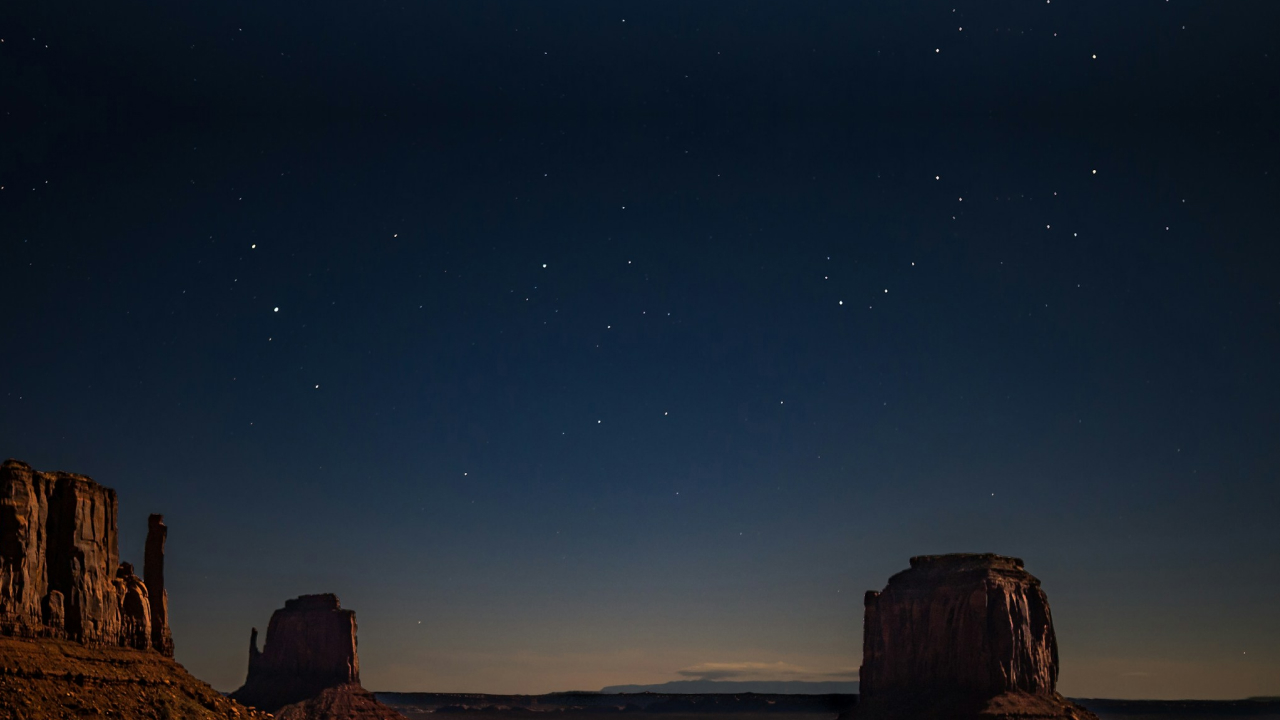
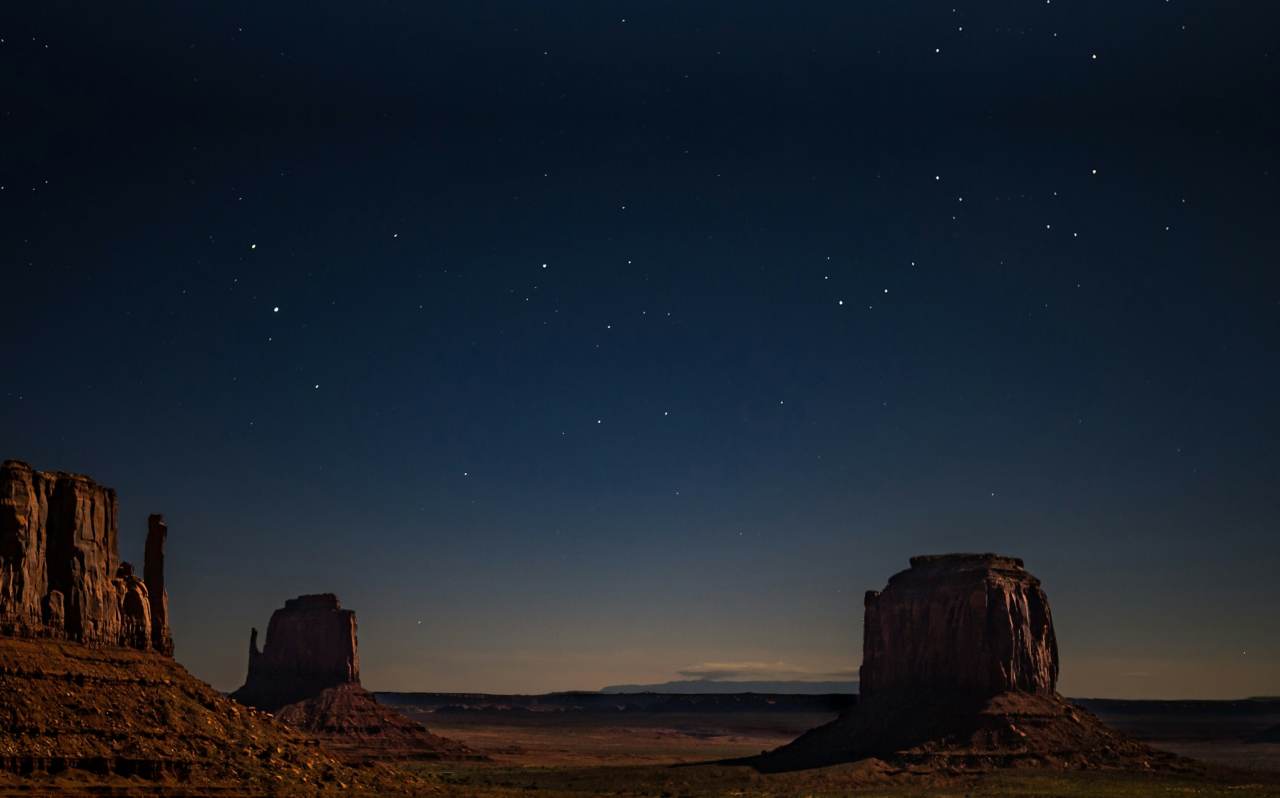
Styles home complete start working in change the store

Changed region(s): [[0.0, 0.5806, 1.0, 1.0]]

diff --git a/src/styles/App.css b/src/styles/App.css
@@ -1,9 +1,60 @@
-body {
-  background-color: #302B3D !important;
+*, ::after, ::before {
+  box-sizing: border-box;
 }
 
-#root {
-  background-image: url('/img/back.jpg') ;
+div {
+  display: block;
+  unicode-bidi: isolate;
+}
+.no-bootstrap {
+  all: revert;
+}
+body {
+  background-color: #302B3D !important;
+  height: 100%;
+  margin: 0px;
+}
+
+.homeSection {
+  justify-content: center;
+  align-items: center;
+}
+.homeContentBox {
+  margin-left: 40px;
+  margin-right: -150px;
+  max-width: 650px;
+}
+.homeText {
+  padding: 35px 50px 35px 45px;
+  background: linear-gradient(to bottom, #F7D95C, #ffa73b); 
+}
+.homeImage {
+  margin-top: -15vh;
+    width: auto;
+  height: 95vh; 
+  object-fit: cover; 
+  align-self: flex-end; 
+}
+.homeLogos { 
+  padding: 20px 50px 20px 45px;
+
+}
+.homeTextUnder{
+  padding: 20px 50px 20px 45px;
+  background-color: rgba(33, 44, 53, 0.9);
+}
+input, input::selection{
+  background-color: #FFFAAE;
+  border: none;
+  border-radius: 20px;
+  padding: 8px 30px 8px 30px ;
+  color: #978653;
+  font-size: 15px;
+  font-family: "Inter", sans-serif;
+  font-style: italic;
+  font-weight: 800; 
+  max-width: 600px;
+
 }
 
 
@@ -12,10 +63,20 @@ body {
 
 /* Content------------------------------------------------------ */
 header {
+
   align-items: center;
   justify-content: space-between;
   padding: 30px 30px 30px 30px;
   flex-direction: row;
+}
+footer{
+  height: 30px;
+  color: #FFFAAE;
+  justify-content: space-between;
+  align-items: center;
+  background-color: #302B3D;
+  padding: 3px 30px 3px 30px;
+  
 }
 
 .logo img {
@@ -33,6 +94,8 @@ header {
   text-decoration: none;
   color: #FFFAAE;
   margin-right: 30px;
+  font-family: "Inter", sans-serif;
+  font-weight: 800;
 }
 .rightMenuButton {
   background-color: #6DC9A8 ;
@@ -48,19 +111,32 @@ header {
   box-shadow: black 10px;
 }
 
+/* Fonts ---------------------------------------------------------------------------*/
+
+h1 {
+  all: unset;
+  font-family: "Libre Baskerville",  Georgia, 'Times New Roman', Times, serif;
+  font-weight: 800 ;
+  color: #212C35;
+  font-size: 90px ;
+  line-height: 92px;
+}
+
 /* Grid & Flex----------------------------------------------------------------------*/
 
 
 #root {
-display: flex
-;
+    display: flex;
     flex-direction: column;
-    height: 100vh;
     justify-content: space-between;
     min-width: 320px;
+    background-image: url('/img/back2x.jpg') ;
+    background-size: cover;
+    background-position: bottom;
+    height: 100%;
 }
 content {
-  margin: 0px 15% 80px 15%;
+  margin: 0px 15% 0px 15%;
 }
 .flex {
   display: flex;
@@ -112,27 +188,25 @@ content {
   header {
     flex-direction: row;
   }
-  content {
-    margin: 0px 5% 50px 5%;
+  footer{
+    height: 30px;
+    
   }
+  content {
+    margin: 0px 5% 0px 5%;
+  }
+  #root {
+        background-image: url('/img/back.jpg') ;
+
+    }
 }
 /* Laptops and Small Screens ------------ */
 @media (max-width: 1025px) {
   content {
-    margin: 0px 5% 50px 5%;
+    margin: 0px 5% 0px 5%;
   }
   header {
     flex-direction: row;
-  }
-  .slider-content {
-    flex-direction: column;
-  }
-  .slider-text {
-    margin-left: 40px;
-    margin-right: 40px;
-  }
-  .product-picture-slider {
-    order: -1;
   }
   .grid-2-col {
     display: grid;
@@ -156,49 +230,14 @@ content {
 
 /* Mobile devices -------------------- */
 @media (max-width: 768px) {
-  h1 {
-    color: #273642;
-    font-family: Georgia, "Times New Roman", Times, serif;
-    font-size: 40px;
-    line-height: 48px;
-  }
-  h2 {
-    color: #273642;
-    font-family: Georgia, "Times New Roman", Times, serif;
-    font-size: 34px;
-    line-height: 42px;
-  }
-  h3 {
-    color: #273642;
-    font-family: Georgia, "Times New Roman", Times, serif;
-    margin-block-start: 0px;
-    font-size: 22px;
-    line-height: 30px;
-    margin-block-end: 20px;
-  }
+
   content {
     margin: 0px 20px 60px 20px;
   }
   header {
     flex-direction: column;
   }
-  .main-menu {
-    padding-left: 0px;
-  }
-  .slider-content {
-    flex-direction: column;
-  }
-  .product-picture-slider {
-    order: -1;
-  }
-  .product-content {
-    display: flex;
-    flex-direction: column;
-  }
-  .button-1 {
-    margin-bottom: 10px;
-    text-align: center;
-  }
+
   .grid-2-col {
     display: grid;
     grid-template-columns: 1fr;

diff --git a/src/pages/Home.tsx b/src/pages/Home.tsx
@@ -1,9 +1,18 @@
 const Home = () => {
     return (
       <content>
-        <section className="flex">
-        <h2>Bienvenido a VinylVibe</h2>
-        <p>Explora los mejores vinilos y encuentra tu música favorita.</p>
+        <section className="flex homeSection">
+          <div className="homeContentBox">
+            <div className="homeText">
+          <h1>Find Your Next Vinyl Obsession</h1>
+          </div>
+          <div className="homeTextUnder">
+           <input type="text" placeholder="Dig for names " ></input>
+          </div>
+          <img className="homeLogos" src="/img/logos.png"></img>
+          </div>
+          <img className="homeImage" src="/img/suricata.png"></img>
+
         </section>
       </content>
     );

diff --git a/src/public/index.html b/src/public/index.html
@@ -6,7 +6,7 @@
 
   <link rel="preconnect" href="https://fonts.googleapis.com">
   <link rel="preconnect" href="https://fonts.gstatic.com" crossorigin>
-  <link href="https://fonts.googleapis.com/css2?family=Inter:ital,opsz,wght@0,14..32,100..900;1,14..32,100..900&display=swap" rel="stylesheet">
+  <link href="https://fonts.googleapis.com/css2?family=Inter:ital,opsz,wght@0,14..32,100..900;1,14..32,100..900&family=Libre+Baskerville:ital,wght@0,400;0,700;1,400&display=swap" rel="stylesheet">
 
   <title>VinylVibes</title>
 </head>

diff --git a/src/routes/AppRoutes.tsx b/src/routes/AppRoutes.tsx
@@ -10,6 +10,7 @@ import MySpins from "../pages/MySpins";
 const AppRoutes = () => {
   return (
     <Router>
+      
       <Header />
       <Routes>
         <Route path="/" element={<Home />} />
@@ -17,6 +18,7 @@ const AppRoutes = () => {
         <Route path="/my-spins" element={<MySpins />} />
         <Route path="/register" element={<Register />} />
       </Routes>
+
       <Footer />
     </Router>
   );

diff --git a/src/main.tsx b/src/main.tsx
@@ -1,7 +1,8 @@
+import 'bootstrap/dist/css/bootstrap.min.css';
 import React from "react";
 import ReactDOM from "react-dom/client";
 import App from "./App";
-import 'bootstrap/dist/css/bootstrap.min.css';
+
 
 ReactDOM.createRoot(document.getElementById("root") as HTMLElement).render(
   <React.StrictMode>
